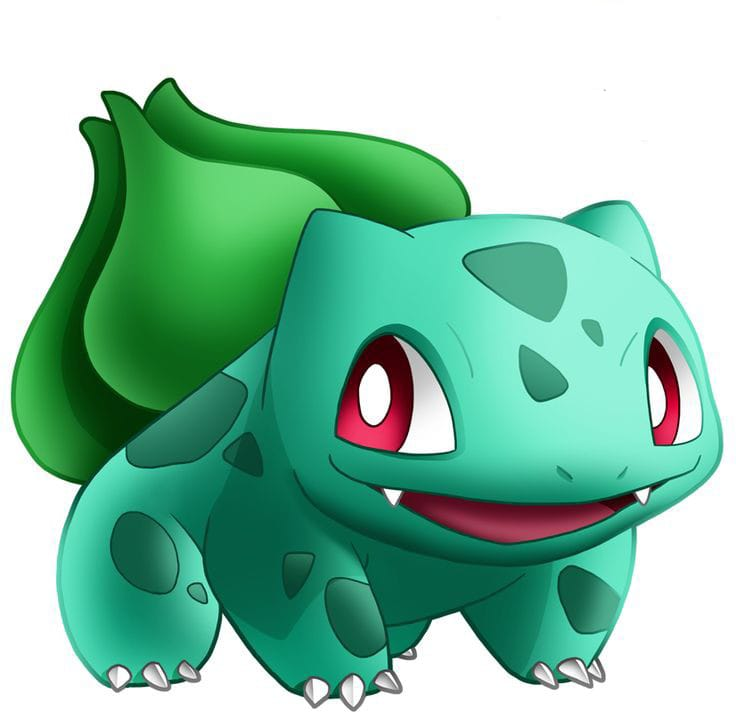
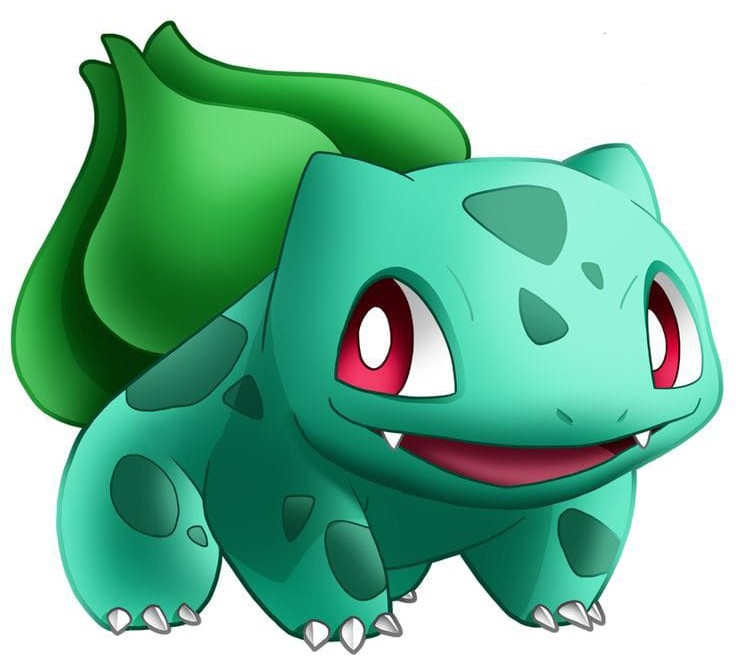
altura e incorporación de imagen a contender y px

diff --git a/index.html b/index.html
@@ -21,21 +21,31 @@
   <body>
     <header></header>
     <main>
-      <!-- CARD POKEMON -->
+      <!-- CARDS POKEMON -->
       <div class="container text-center mt-5">
         <div class="row">
           <div class="col-3 mb-5">
             <div class="card h-100">
               <img
                 src="./img/imgPokemons/Bulbasaur.jpeg"
-                class="card-img-top w-100 px-2"
+                class="card-img-top w-100 object-fit-contain px-2 border border-primary h-100"
                 alt="Bulbasaur" />
               <div class="card-body">
                 <p class="text-start">N°0001</p>
                 <h3 class="card-title text-start">Bulbasaur</h3>
                 <div class="d-flex">
-                <h5><span class="badge rounded-pill text-bg-secondary me-2 justify-content-center my-2">Planta</span></h5>
-                <h5><span class="badge rounded-pill text-bg-secondary me-2 justify-content-center my-2">Veneno</span></h5>
+                  <h5>
+                    <span
+                      class="badge rounded-pill text-bg-secondary me-2 justify-content-center my-2"
+                      >Planta</span
+                    >
+                  </h5>
+                  <h5>
+                    <span
+                      class="badge rounded-pill text-bg-secondary me-2 justify-content-center my-2"
+                      >Veneno</span
+                    >
+                  </h5>
                 </div>
                 <a href="#" class="btn btn-primary">Ver detalle</a>
               </div>
@@ -43,16 +53,26 @@
           </div>
           <div class="col-3 mb-5">
             <div class="card h-100">
-              <img
+            <img
                 src="./img/imgPokemons/Ivysaur.jpeg"
-                class="card-img-top w-100 px-2"
+                class="card-img-top w-100 object-fit-contain px-2 border border-primary h-100"
                 alt="Ivysaur" />
-              <div class="card-body">
+            <div class="card-body border border-danger">
                 <p class="text-start">N°0002</p>
                 <h3 class="card-title text-start">Ivysaur</h3>
                 <div class="d-flex">
-                  <h5><span class="badge rounded-pill text-bg-secondary me-2 justify-content-center my-2">Planta</span></h5>
-                  <h5><span class="badge rounded-pill text-bg-secondary me-2 justify-content-center my-2">Veneno</span></h5>
+                  <h5>
+                    <span
+                      class="badge rounded-pill text-bg-secondary me-2 justify-content-center my-2"
+                      >Planta</span
+                    >
+                  </h5>
+                  <h5>
+                    <span
+                      class="badge rounded-pill text-bg-secondary me-2 justify-content-center my-2"
+                      >Veneno</span
+                    >
+                  </h5>
                 </div>
                 <a href="#" class="btn btn-primary">Ver detalle</a>
               </div>
@@ -62,46 +82,66 @@
             <div class="card h-100">
               <img
                 src="./img/imgPokemons/Venusaur.jpeg"
-                class="card-img-top w-100 px-2"
+                class="card-img-top w-100 object-fit-contain px-2 border border-primary h-100"
                 alt="Venusaur" />
-            <div class="card-body">
-              <p class="text-start">N°0003</p>
-              <h3 class="card-title text-start">Venusaur</h3>
-              <div class="d-flex">
-                <h5><span class="badge rounded-pill text-bg-secondary me-2 justify-content-center my-2">Planta</span></h5>
-                <h5><span class="badge rounded-pill text-bg-secondary me-2 justify-content-center my-2">Veneno</span></h5>
+              <div class="card-body">
+                <p class="text-start">N°0003</p>
+                <h3 class="card-title text-start">Venusaur</h3>
+                <div class="d-flex">
+                  <h5>
+                    <span
+                      class="badge rounded-pill text-bg-secondary me-2 justify-content-center my-2"
+                      >Planta</span
+                    >
+                  </h5>
+                  <h5>
+                    <span
+                      class="badge rounded-pill text-bg-secondary me-2 justify-content-center my-2"
+                      >Veneno</span
+                    >
+                  </h5>
+                </div>
+                <a href="#" class="btn btn-primary">Ver detalle</a>
               </div>
-              <a href="#" class="btn btn-primary">Ver detalle</a>
-            </div>
             </div>
           </div>
           <div class="col-3 mb-5">
             <div class="card h-100">
               <img
                 src="./img/imgPokemons/Charmander.jpeg"
-                class="card-img-top w-100 px-2"
+                class="card-img-top w-100 object-fit-contain px-2 border border-primary h-100"
                 alt="Charmander" />
-            <div class="card-body">
-              <p class="text-start">N°0004</p>
-              <h3 class="card-title text-start">Charmander</h3>
-              <div class="d-flex">
-                <h5><span class="badge rounded-pill text-bg-secondary me-2 justify-content-center my-2">Fuego</span></h5>
+              <div class="card-body">
+                <p class="text-start">N°0004</p>
+                <h3 class="card-title text-start">Charmander</h3>
+                <div class="d-flex">
+                  <h5>
+                    <span
+                      class="badge rounded-pill text-bg-secondary me-2 justify-content-center my-2"
+                      >Fuego</span
+                    >
+                  </h5>
+                </div>
+                <a href="#" class="btn btn-primary">Ver detalle</a>
               </div>
-              <a href="#" class="btn btn-primary">Ver detalle</a>
-            </div>
             </div>
           </div>
           <div class="col-3 mb-5">
             <div class="card h-100">
               <img
                 src="./img/imgPokemons/Charmeleon.jpeg"
-                class="card-img-top w-100 px-2"
+                class="card-img-top w-100 object-fit-contain px-2 border border-primary h-100"
                 alt="Charmeleon" />
               <div class="card-body">
                 <p class="text-start">N°0005</p>
                 <h3 class="card-title text-start">Charmeleon</h3>
                 <div class="d-flex">
-                  <h5><span class="badge rounded-pill text-bg-secondary me-2 justify-content-center my-2">Fuego</span></h5>
+                  <h5>
+                    <span
+                      class="badge rounded-pill text-bg-secondary me-2 justify-content-center my-2"
+                      >Fuego</span
+                    >
+                  </h5>
                 </div>
                 <a href="#" class="btn btn-primary">Ver detalle</a>
               </div>
@@ -111,14 +151,24 @@
             <div class="card h-100">
               <img
                 src="./img/imgPokemons/Charizard.jpeg"
-                class="card-img-top w-100 px-2"
+                class="card-img-top w-100 object-fit-contain px-2 border border-primary h-100"
                 alt="Charizard" />
               <div class="card-body">
                 <p class="text-start">N°0006</p>
                 <h3 class="card-title text-start">Charizard</h3>
                 <div class="d-flex">
-                  <h5><span class="badge rounded-pill text-bg-secondary me-2 justify-content-center my-2">Fuego</span></h5>
-                  <h5><span class="badge rounded-pill text-bg-secondary me-2 justify-content-center my-2">Volador</span></h5>
+                  <h5>
+                    <span
+                      class="badge rounded-pill text-bg-secondary me-2 justify-content-center my-2"
+                      >Fuego</span
+                    >
+                  </h5>
+                  <h5>
+                    <span
+                      class="badge rounded-pill text-bg-secondary me-2 justify-content-center my-2"
+                      >Volador</span
+                    >
+                  </h5>
                 </div>
                 <a href="#" class="btn btn-primary">Ver detalle</a>
               </div>
@@ -128,13 +178,18 @@
             <div class="card h-100">
               <img
                 src="./img/imgPokemons/Squirtle.jpeg"
-                class="card-img-top w-100 px-2"
+                class="card-img-top w-100 object-fit-contain px-2 border border-primary h-100"
                 alt="Squirtle" />
               <div class="card-body">
                 <p class="text-start">N°0007</p>
                 <h3 class="card-title text-start">Squirtle</h3>
                 <div class="d-flex">
-                  <h5><span class="badge rounded-pill text-bg-secondary me-2 justify-content-center my-2">Agua</span></h5>
+                  <h5>
+                    <span
+                      class="badge rounded-pill text-bg-secondary me-2 justify-content-center my-2"
+                      >Agua</span
+                    >
+                  </h5>
                 </div>
                 <a href="#" class="btn btn-primary">Ver detalle</a>
               </div>
@@ -144,13 +199,18 @@
             <div class="card h-100">
               <img
                 src="./img/imgPokemons/Wartortle.jpeg"
-                class="card-img-top w-100 px-2"
+                class="card-img-top w-100 object-fit-contain px-2 border border-primary h-100"
                 alt="Wartortle" />
               <div class="card-body">
                 <p class="text-start">N°0008</p>
                 <h3 class="card-title text-start">Wartortle</h3>
                 <div class="d-flex">
-                  <h5><span class="badge rounded-pill text-bg-secondary me-2 justify-content-center my-2">Agua</span></h5>
+                  <h5>
+                    <span
+                      class="badge rounded-pill text-bg-secondary me-2 justify-content-center my-2"
+                      >Agua</span
+                    >
+                  </h5>
                 </div>
                 <a href="#" class="btn btn-primary">Ver detalle</a>
               </div>
@@ -160,13 +220,18 @@
             <div class="card h-100">
               <img
                 src="./img/imgPokemons/Blastoise.jpeg"
-                class="card-img-top w-100 px-2"
+                class="card-img-top w-100 object-fit-contain px-2 border border-primary h-100"
                 alt="Blastoise" />
               <div class="card-body">
                 <p class="text-start">N°0009</p>
                 <h3 class="card-title text-start">Blastoise</h3>
                 <div class="d-flex">
-                  <h5><span class="badge rounded-pill text-bg-secondary me-2 justify-content-center my-2">Agua</span></h5>
+                  <h5>
+                    <span
+                      class="badge rounded-pill text-bg-secondary me-2 justify-content-center my-2"
+                      >Agua</span
+                    >
+                  </h5>
                 </div>
                 <a href="#" class="btn btn-primary">Ver detalle</a>
               </div>

diff --git a/css/style.css b/css/style.css
@@ -21,3 +21,12 @@ body {
   flex-direction: column;
   background-color: var(--white);
 }
+
+#imgIvysaur{
+  background: url(../img/imgPokemons/Ivysaur.jpeg) no-repeat;
+  background-size:cover;
+  border-color: green;
+  padding: 0px 30px 0px 3px;
+  
+  
+}
